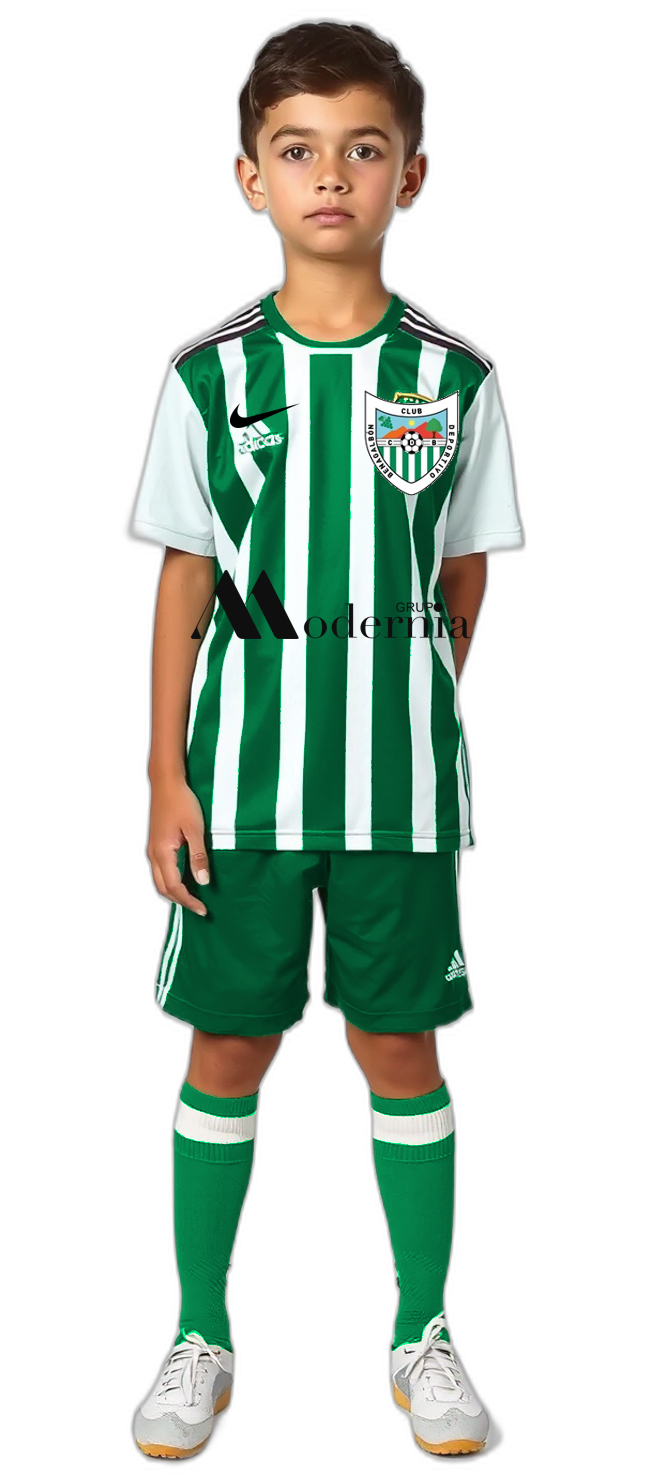
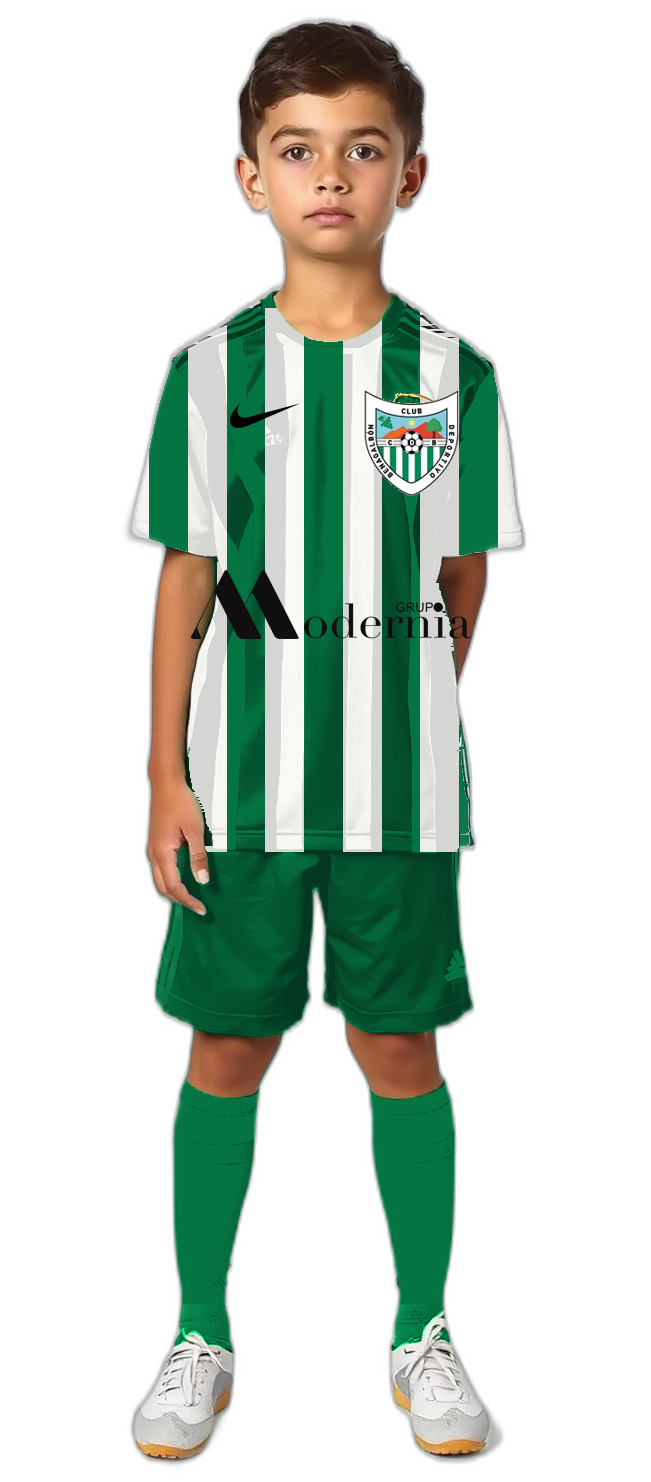
Avatares: la equipación deja de parecerse y pasa a ser la misma
Igualar el color no bastaba. Cada figura salió de una tirada distinta de Flux y
cada una dibujó las rayas a su manera: unas anchas, otras finísimas, alguna con
las mangas de otro color, un pantalón casi menta y unas medias de dos tonos. De
lejos parecían la misma camiseta; de cerca eran diez camisetas parecidas.

Ahora la equipación se PINTA, en el acabado y antes de los logos:

- La camiseta se reconoce por lo único que la distingue del resto de prendas: es
  la única que lleva blanco. Y se corta por la entrepierna, que es donde una
  camiseta no puede pasar; sin ese tope, un pantalón pálido con algo de blanco se
  colaba como camiseta y acababa con rayas pintadas encima.
- Se le pintan siete bandas verticales centradas en el eje del cuerpo, con el
  verde del club y blanco, conservando los pliegues de cada figura. El blanco
  apenas se deja oscurecer: si baja con la sombra, las rayas salen grises.
- De la camiseta para abajo, todo verde liso. Aquí también intenté adivinar el
  color primero, y un pantalón menta no pasaba por "verde" y se quedaba menta.
  Ahí abajo sólo hay pantalón y medias: no hay nada que adivinar.
- La piel se excluye muestreando su tono en la mejilla. En el primer intento le
  pinté rayas verdes en la cara al niño.

Se aplica también a la figura de adulto, que era la que quedaba fuera. Como esa
ya llevaba los logos pegados, se protege lo que dentro de la camiseta no es tela
[…]

diff --git a/scripts/avatares/finish_ninos.py b/scripts/avatares/finish_ninos.py
@@ -104,6 +104,148 @@ def unificar_verde(im, objetivo=VERDE_CLUB):
     return Image.fromarray(a.astype("uint8"), "RGBA")
 
 
+BLANCO_CLUB = (243, 243, 240)
+BANDAS = 7          # rayas verticales a lo ancho del torso, empezando y acabando en verde
+
+
+def _fila_entrepierna(dentro):
+    """
+    La fila donde se juntan las piernas. Por debajo hay dos tramos (una pierna y otra); por
+    encima, uno solo. Es el limite anatomico de la camiseta: el pantalon empieza por encima, pero
+    la camiseta NUNCA baja de ahi.
+    """
+    h = dentro.shape[0]
+    for y in range(h - 5, int(h * 0.35), -1):
+        fila = dentro[y].astype(np.int8)
+        tramos = int(np.count_nonzero(np.diff(np.concatenate(([0], fila, [0]))) == 1))
+        if tramos < 2:
+            return y
+    return int(h * 0.55)
+
+
+def _mascara_piel(rgb, dentro, cara):
+    """Piel del jugador, para no repintarle la cara ni los brazos. Muestrea su propio tono."""
+    x0, y0, x1, y1 = [float(v) for v in cara.bbox]
+    cx, cy = int((x0 + x1) / 2), int(y0 + (y1 - y0) * 0.62)
+    rad = max(3, int((x1 - x0) * 0.08))
+    muestra = np.median(rgb[cy - rad:cy + rad, cx - rad:cx + rad].reshape(-1, 3), axis=0)
+
+    def ycrcb(v):
+        r, g, b = v[..., 0], v[..., 1], v[..., 2]
+        y = 0.299 * r + 0.587 * g + 0.114 * b
+        return np.stack([y, (r - y) * 0.713 + 128, (b - y) * 0.564 + 128], axis=-1)
+
+    a = ycrcb(rgb.astype(np.float32))
+    m = ycrcb(muestra.astype(np.float32).reshape(1, 1, 3))[0, 0]
+    d = np.sqrt((a[..., 1] - m[1]) ** 2 + (a[..., 2] - m[2]) ** 2)
+    return dentro & (d < 30)
+
+
+def uniformar_rayas(im, cara, verde=VERDE_CLUB, blanco=BLANCO_CLUB, bandas=BANDAS):
+    """
+    Pinta LA MISMA camiseta en todas las figuras: mismo numero de rayas, mismos colores, y los
+    pliegues de cada una respetados.
+
+    Igualar solo el color no bastaba: cada tirada de Flux dibujaba las rayas a su manera -unas
+    anchas, otras finas, alguna con las mangas de otro color- y la equipacion tiene que ser LA del
+    club, no un parecido.
+
+    Se pinta SOLO la camiseta, y la camiseta se reconoce por una propiedad que no tiene ninguna
+    otra prenda: es lo unico que lleva blanco. El pantalon y las medias son verde liso y las botas
+    quedan por debajo; la piel se excluye aparte, muestreando su tono en la mejilla, porque si no
+    al jugador se le pinta la cara.
+    """
+    a = np.asarray(im).astype(np.float32)
+    rgb, alfa = a[:, :, :3], a[:, :, 3]
+    r, g, b = rgb[:, :, 0], rgb[:, :, 1], rgb[:, :, 2]
+    dentro = alfa > 128
+    piel = _mascara_piel(rgb, dentro, cara)
+    es_verde = dentro & (~piel) & (g > r + 25) & (g > b + 25)
+    es_blanco = dentro & (~piel) & (r > 165) & (g > 165) & (b > 165) & (abs(r - g) < 40) & (abs(g - b) < 40)
+    tela = es_verde | es_blanco
+    if tela.sum() < 2000:
+        return im
+
+    # Filas de camiseta: las que llevan blanco de forma apreciable, en el tercio alto del cuerpo.
+    alto = a.shape[0]
+    ancho_fila = tela.sum(axis=1).astype(np.float32)
+    blanco_fila = es_blanco.sum(axis=1).astype(np.float32)
+    con_blanco = (ancho_fila > 40) & (blanco_fila > ancho_fila * 0.12)
+    barbilla = int(cara.bbox[3])
+    con_blanco[:barbilla] = False
+    con_blanco[int(alto * 0.72):] = False        # de la rodilla para abajo no hay camiseta
+    # La camiseta no puede pasar de la entrepierna. Sin este tope, un pantalon palido con algo de
+    # blanco se colaba como "fila de camiseta" y acababa con rayas pintadas.
+    tope = _fila_entrepierna(dentro)
+    con_blanco[tope:] = False
+    filas = np.nonzero(con_blanco)[0]
+    if len(filas) < 40:
+        return im
+    y_ini, y_fin = int(filas.min()), int(filas.max())
+
+    yy, xx = np.mgrid[0:alto, 0:a.shape[1]]
+    # La camiseta se RELLENA fila a fila, de un borde de tela al otro, en vez de ir pixel a pixel:
+    # los pliegues mas oscuros no pasaban el filtro de "verde" y quedaban sin pintar, y la camiseta
+    # salia moteada. Lo unico que se respeta dentro es la piel (cuello y brazos).
+    camiseta = np.zeros_like(dentro)
+    for y in range(y_ini, y_fin + 1):
+        xs_fila = np.nonzero(tela[y])[0]
+        if len(xs_fila) < 10:
+            continue
+        camiseta[y, xs_fila.min():xs_fila.max() + 1] = True
+    camiseta &= dentro & (~piel)
+    # Lo que no es tela ni piel dentro de la camiseta es un logo (escudo, marca, patrocinador):
+    # muy saturado o casi negro. Se protege, porque esta funcion tambien se usa sobre figuras que
+    # YA los llevan pegados.
+    maxc, minc = rgb.max(axis=2), rgb.min(axis=2)
+    saturado = (maxc - minc) > 60
+    oscuro = maxc < 90
+    camiseta &= ~((saturado & ~es_verde) | oscuro)
+    if camiseta.sum() < 1500:
+        return im
+
+    # Ancho de banda medido en el TRAMO CENTRAL de una fila baja de la camiseta (sin mangas).
+    y_ref = y_ini + int((y_fin - y_ini) * 0.8)
+    xs = np.nonzero(camiseta[y_ref])[0]
+    if len(xs) < 20:
+        xs = np.nonzero(camiseta[y_fin - 2])[0]
+    centro, ancho_torso = (xs.min() + xs.max()) / 2.0, float(xs.max() - xs.min() + 1)
+    banda = max(6.0, ancho_torso / bandas)
+
+    lum = rgb.max(axis=2) / 255.0
+    ref_v = float(np.median(lum[es_verde & camiseta])) if (es_verde & camiseta).any() else 0.5
+    ref_b = float(np.median(lum[es_blanco & camiseta])) if (es_blanco & camiseta).any() else 0.9
+
+    indice = np.floor((xx - centro) / banda + 0.5).astype(int)
+    toca_verde = (indice % 2) == 0
+
+    salida = rgb.copy()
+    # El blanco admite MUCHO menos juego que el verde: si se le deja bajar con la sombra, las
+    # rayas blancas salen grises y la camiseta parece otra.
+    for pinta, color, ref, (lo, hi) in (
+        (camiseta & toca_verde, verde, ref_v, (0.62, 1.30)),
+        (camiseta & ~toca_verde, blanco, ref_b, (0.88, 1.04)),
+    ):
+        if not pinta.any():
+            continue
+        factor = np.clip(lum[pinta] / max(ref, 0.05), lo, hi)[:, None]
+        salida[pinta] = np.clip(np.array(color, dtype=np.float32) * factor, 0, 255)
+    # PANTALON Y MEDIAS: verde liso del club. Salian de todo -uno con el pantalon casi menta, otro
+    # con las medias de dos colores- y son la mitad de la equipacion. Se repinta de la camiseta
+    # para abajo, sin llegar a las botas (el ultimo 12% de la figura), y sin tocar la piel.
+    debajo = (yy > y_fin) & (yy < int(alto * 0.88)) & dentro & (~piel)
+    # Todo lo que hay ahi es pantalon o medias: no hace falta adivinar el color, que es
+    # justamente lo que fallaba (un pantalon menta no pasaba por "verde" y se quedaba menta).
+    prenda = debajo
+    if prenda.sum() > 500:
+        ref_p = float(np.median(lum[debajo & es_verde])) if (debajo & es_verde).any() else 0.45
+        factor = np.clip(lum[prenda] / max(ref_p, 0.05), 0.62, 1.30)[:, None]
+        salida[prenda] = np.clip(np.array(verde, dtype=np.float32) * factor, 0, 255)
+
+    a[:, :, :3] = salida
+    return Image.fromarray(a.astype("uint8"), "RGBA")
+
+
 def finish(origen, destino):
     # El chandal es negro: el patrocinador tiene que ir en blanco o desaparece.
     chandal = "chandal" in os.path.basename(destino)
@@ -113,11 +255,16 @@ def finish(origen, destino):
     if fig.size[0] * s > CW:
         s = (CW * 0.98) / fig.size[0]
     fig = fig.resize((int(fig.size[0] * s), int(fig.size[1] * s)))
-    fig = unificar_verde(fig)   # ANTES de los logos: el escudo tambien tiene verde y no se toca
+    # ANTES de los logos: el escudo tambien lleva verde y blanco y no se puede repintar.
+    fig = unificar_verde(fig)
     lienzo = Image.new("RGBA", (CW, CH), (0, 0, 0, 0))
     lienzo.alpha_composite(fig, ((CW - fig.size[0]) // 2, CH - fig.size[1] - int(CH * 0.005)))
 
     cara = cara_de(lienzo)
+    if cara is not None and not chandal:
+        # Las rayas se pintan sobre el lienzo ya montado y ANTES de los logos: el escudo lleva
+        # verde y blanco y no se puede repintar.
+        lienzo = uniformar_rayas(lienzo, cara)
     if cara is None:
         print(f"AVISO {os.path.basename(destino)}: sin cara detectada, no se pegan los logos")
         lienzo.save(destino)
